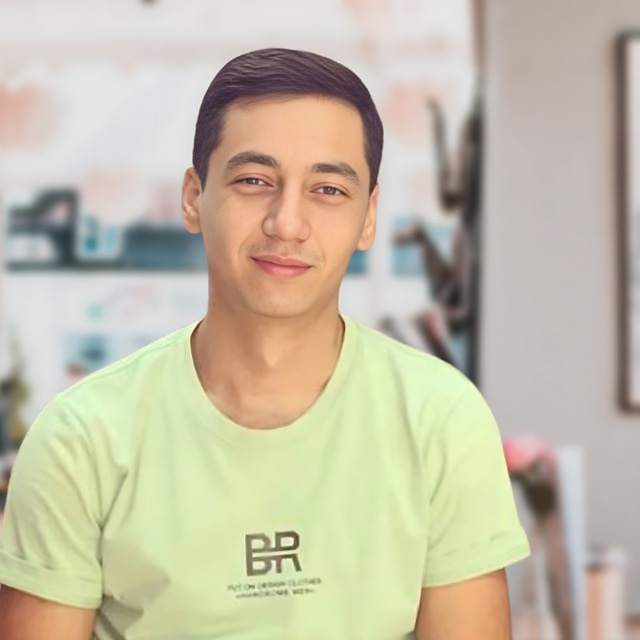
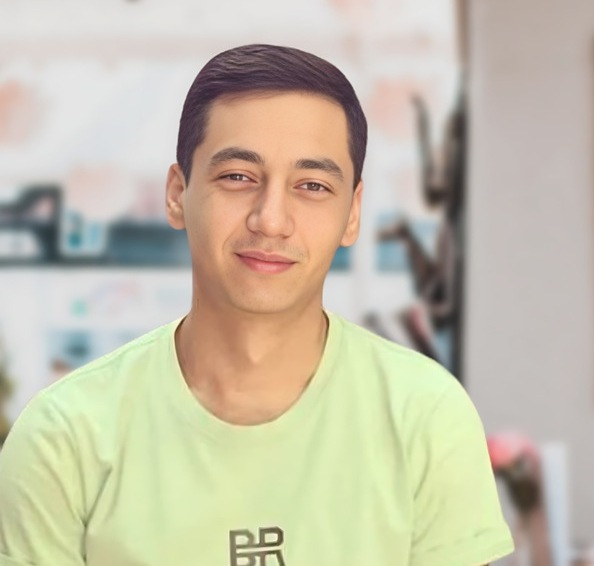
Refactor code structure for improved readability and maintainability

diff --git a/components/about/index.jsx b/components/about/index.jsx
@@ -37,7 +37,7 @@ const About = () => {
               name="Usmonov Behruz"
               job="Product Manager"
               link="https://t.me/ubehruz"
-              paragraph={t('home:about_product_manager')}
+              paragraph={t('home:about_product_management')}
             />
             <People
               img="/images/team/azizjon.jpg"
@@ -58,27 +58,27 @@ const About = () => {
             paragraph={`${t('home:about_frontend')}`}
           />
           <People
-            img="/images/team/avatar.jpg"
+            img="/images/team/sarvar_anvarov.png"
             alt="dotSoft web programming group: Anvarov Sarvar"
             name="Anvarov Sarvar"
             job="SMM Marketolog"
-            link="https://t.me/@sareanvarov"
-            paragraph={t('home:about_sales_mangment')}
+            link="https://t.me/sareanvarov"
+            paragraph={t('home:about_smm_marketing')}
           />
           <People
-            img="/images/team/Muzaffar.jpg"
-            name="Saforv Muzaffar"
-            job="Front End Dev"
-            link="https://t.me/your_frontendDev"
-            paragraph={`${t('home:about_frontend')}`}
-          />
-          <People
-            img="/images/team/Komil.jpeg"
+            img="/images/team/komil.jpg"
             alt="dotSoft web programming group: Mahmudov Komil"
             name="Maxmudov Komil"
             job="Backend Dev"
             link="https://t.me/komilmaxmudov"
             paragraph={`${t('home:about_backend')}`}
+          />
+          <People
+            img="/images/team/norpulatov_aziz.jpg"
+            name="Norpulatov Aziz"
+            job="Sales Manager"
+            link="https://t.me/Only_dear"
+            paragraph={`${t('home:about_sales_management')}`}
           />
         </div>
       </div>
